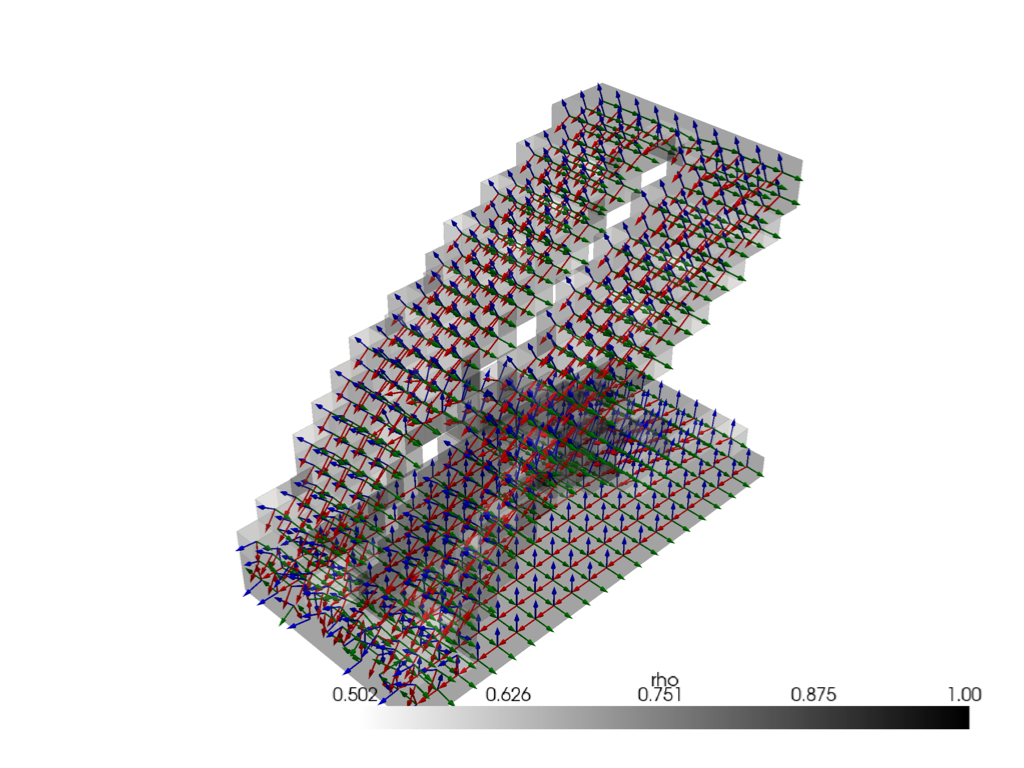
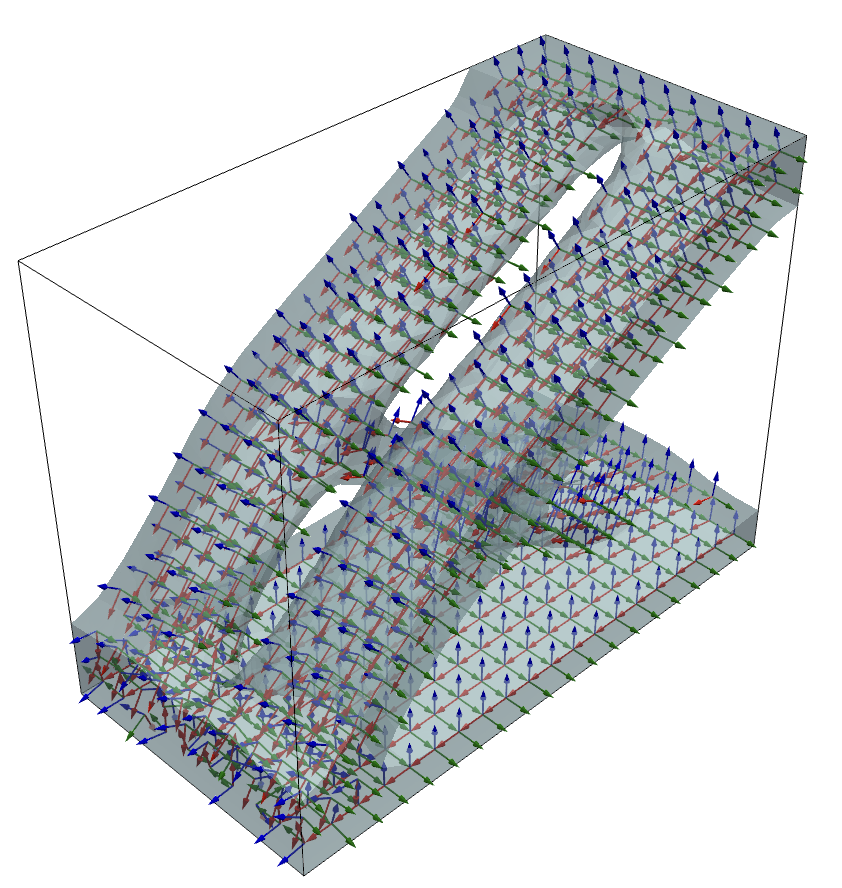
Improve solid plots with clip rendering.

diff --git a/src/torchfem/solid.py b/src/torchfem/solid.py
@@ -76,10 +76,10 @@ class Solid(Mechanics):
         orientations: Tensor | None = None,
         show_edges: bool = True,
         show_undeformed: bool = False,
+        show_outline: bool = False,
         bcs: bool = False,
-        contour: tuple[str, list[float]] | None = None,
+        clip: tuple[str, float] | None = None,
         plotter: pyvista.Plotter | None = None,
-        threshold_condition: torch.Tensor | None = None,
         **kwargs,
     ):
         """Plot the mesh with optional node and element properties.
@@ -97,16 +97,17 @@ class Solid(Mechanics):
                 Show edges. Defaults to True.
             show_undeformed (bool, optional):
                 Show undeformed mesh. Defaults to False.
+            show_outline (bool, optional):
+                Show a box around the full mesh. Defaults to False.
             bcs (bool, optional):
                 If True, render boundary conditions (forces as arrows,
                 prescribed displacements as arrows and tip markers,
                 and constrained DOFs as cones). Defaults to False.
-            contour (tuple[str, list[float]], optional):
-                Contour plot. Defaults to None.
+            clip (tuple[str, float], optional):
+                Property and value to cut the mesh at. Culls orientations and
+                boundary conditions with it. Defaults to None.
             plotter (pyvista.Plotter, optional):
                 PyVista plotter. Defaults to None.
-            threshold_condition (torch.Tensor, optional):
-                Threshold condition to recover subshape. Defaults to None.
             **kwargs:
                 Additional keyword arguments passed to pyvista.Plotter.add_mesh.
         """
@@ -145,11 +146,21 @@ class Solid(Mechanics):
             for key, val in element_property.items():
                 mesh.cell_data[key] = val.cpu().numpy()
 
-        if threshold_condition is None:
-            threshold_condition = torch.ones(self.n_elem, dtype=torch.bool)
+        if show_outline:
+            pl.add_mesh(mesh.outline(), color="black")
 
-        # Apply threshold to recover subshape
-        mesh = mesh.extract_cells(threshold_condition.cpu().numpy())
+        # Averaging onto the nodes makes the field continuous, so the cut runs
+        # through the elements instead of around them.
+        kept = torch.ones(self.n_elem, dtype=torch.bool)
+        if clip:
+            scalars, value = clip
+            # Surviving elements, to cull orientations and BCs
+            if element_property and scalars in element_property:
+                kept = element_property[scalars] > value
+            elif node_property and scalars in node_property:
+                kept = (node_property[scalars][self.elements] > value).any(dim=1)
+            mesh = mesh.cell_data_to_point_data()
+            mesh = mesh.clip_scalar(scalars=scalars, value=value, invert=False)
 
         # Plot orientations
         if orientations is not None:
@@ -157,35 +168,28 @@ class Solid(Mechanics):
             for j, color in enumerate(["red", "green", "blue"]):
                 directions = orientations[:, j, :]
                 pl.add_arrows(
-                    ecenters.cpu().numpy()[threshold_condition],
-                    directions.cpu().numpy()[threshold_condition],
+                    ecenters.cpu().numpy()[kept],
+                    directions.cpu().numpy()[kept],
                     mag=1,
                     color=color,
                     show_scalar_bar=False,
                 )
 
         # Plot mesh
-        if contour:
-            scalars, values = contour
-            pl.add_mesh(mesh.outline(), color="black")
-            pl.add_mesh(mesh.contour(values, scalars=scalars), **kwargs)
-        else:
-            mesh = typing.cast(DataSet, mesh)
-            if show_edges:
-                if self.etype is Tetra2 or self.etype is Hexa2:
-                    # Trick to plot edges for quadratic elements
-                    # See: https://github.com/pyvista/pyvista/discussions/5777
-                    surface = mesh.separate_cells().extract_surface(
-                        nonlinear_subdivision=4
-                    )
-                    edges = surface.extract_feature_edges()
-                    pl.add_mesh(surface, **kwargs)
-                    actor = pl.add_mesh(edges, style="wireframe", color="black")
-                    actor.mapper.SetResolveCoincidentTopologyToPolygonOffset()
-                else:
-                    pl.add_mesh(mesh, show_edges=True, **kwargs)
+        mesh = typing.cast(DataSet, mesh)
+        if show_edges:
+            if self.etype is Tetra2 or self.etype is Hexa2:
+                # Trick to plot edges for quadratic elements
+                # See: https://github.com/pyvista/pyvista/discussions/5777
+                surface = mesh.separate_cells().extract_surface(nonlinear_subdivision=4)
+                edges = surface.extract_feature_edges()
+                pl.add_mesh(surface, **kwargs)
+                actor = pl.add_mesh(edges, style="wireframe", color="black")
+                actor.mapper.SetResolveCoincidentTopologyToPolygonOffset()
             else:
-                pl.add_mesh(mesh, **kwargs)
+                pl.add_mesh(mesh, show_edges=True, **kwargs)
+        else:
+            pl.add_mesh(mesh, **kwargs)
 
         if show_undeformed:
             undefo = pyvista.UnstructuredGrid(elements, cell_types, self.nodes.tolist())
@@ -204,7 +208,7 @@ class Solid(Mechanics):
 
             # Nodes of culled elements carry no visible boundary conditions
             visible = torch.zeros(self.n_nod, dtype=torch.bool)
-            visible[self.elements[threshold_condition].reshape(-1)] = True
+            visible[self.elements[kept].reshape(-1)] = True
 
             def glyph(points: Tensor, geom, directions: Tensor | None = None):
                 """Put a gray geom on every point, along and scaled by directions."""

diff --git a/CHANGELOG.md b/CHANGELOG.md
@@ -7,6 +7,8 @@
 - Tests for the conductivity materials, the orthotropic plane-stress and plane-strain materials, `linear_to_quadratic(...)`, `Truss`, `SolidHeat`, the boundary condition setters, and the non-planar mesh imports, none of which had unit tests before.
 - A first-order patch test over all eight supported element types. `Planar` and `Solid` were previously only ever tested with `Quad1` and `Hexa1` meshes.
 - `torchfem.sparse.resolve_method(...)` returns the linear solver backend that `sparse_solve(...)` picks for a given system size and device. `sparse_solve(...)` now uses it instead of its own copy of the rules.
+- `Solid.plot(..., clip=("rho", 0.5))` cuts the mesh at an iso-value of a property, culling orientations and boundary conditions with it. The `optimization/solid/bracket.ipynb` example uses it to show the optimized part instead of exporting a VTU for ParaView.
+- `Solid.plot(..., show_outline=True)` draws a box around the full mesh, which gives a clipped result its design space back.
 
 ### Changed
 - `verbose=True` in `solve(...)` and `time_integration(...)` prints a compact table with one row per increment, holding its substeps, iterations, residual, wall time, and flags counting the substep cutbacks (`↓`) and growths (`↑`), under a header naming the model, the machine, the linear solver backend actually used, and the Newton settings. Notebooks redraw the table in place, elsewhere rows stream as they complete. Iterations count linear solves, so a linear problem needs exactly one.
@@ -16,6 +18,8 @@
 - The `increments` argument of `solve(...)` and the `t_output` argument of `time_integration(...)` now default to `None` instead of a `torch.tensor([0.0, 1.0])` built once at import. The effective default is unchanged.
 
 ### Removed
+- **Breaking:** The `contour` argument of `Solid.plot(...)`, superseded by `clip`. The `basic/solid/gyroid.ipynb` example now clips on `thickness - sdf.abs()`, rendering the wall as a solid instead of its two bounding surfaces.
+- **Breaking:** The `threshold_condition` argument of `Solid.plot(...)`, superseded by `clip`.
 - **Breaking:** The `torchfem.sdfs` module, which provided signed distance functions for implicit geometry (TPMS surfaces, primitives, and CSG booleans) and is out of scope for a finite element library. The `basic/solid/gyroid.ipynb` example now defines its distance function inline.
 - The `basic/solid/implicits.ipynb` and `basic/solid/tpms.ipynb` examples and their gallery entries.
 
